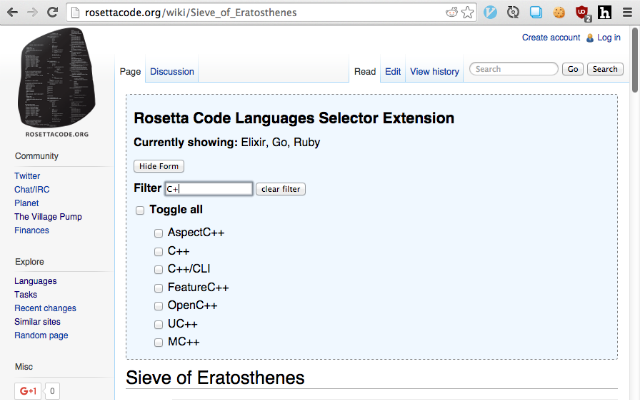
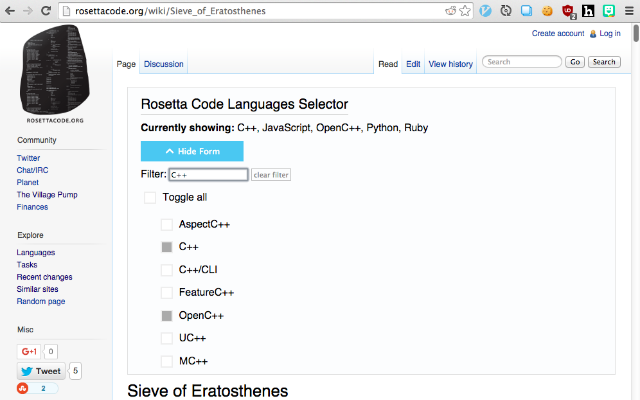
update screenshot

diff --git a/README.md b/README.md
@@ -35,7 +35,7 @@ something like this at the top of the page:
 Click the "Select Languages" button to reveal a form that allows you to
 select which languages to display.
 
-![Languages Selector Screenshot](images/screenshot-expanded-small.png?raw=true)
+![Languages Selector Screenshot](images/screenshot-expanded-640x400.png?raw=true)
 
 You can select all/none of the languages using the "Toggle all" button.
 Because there are so many languages, it is highly recommended that you
